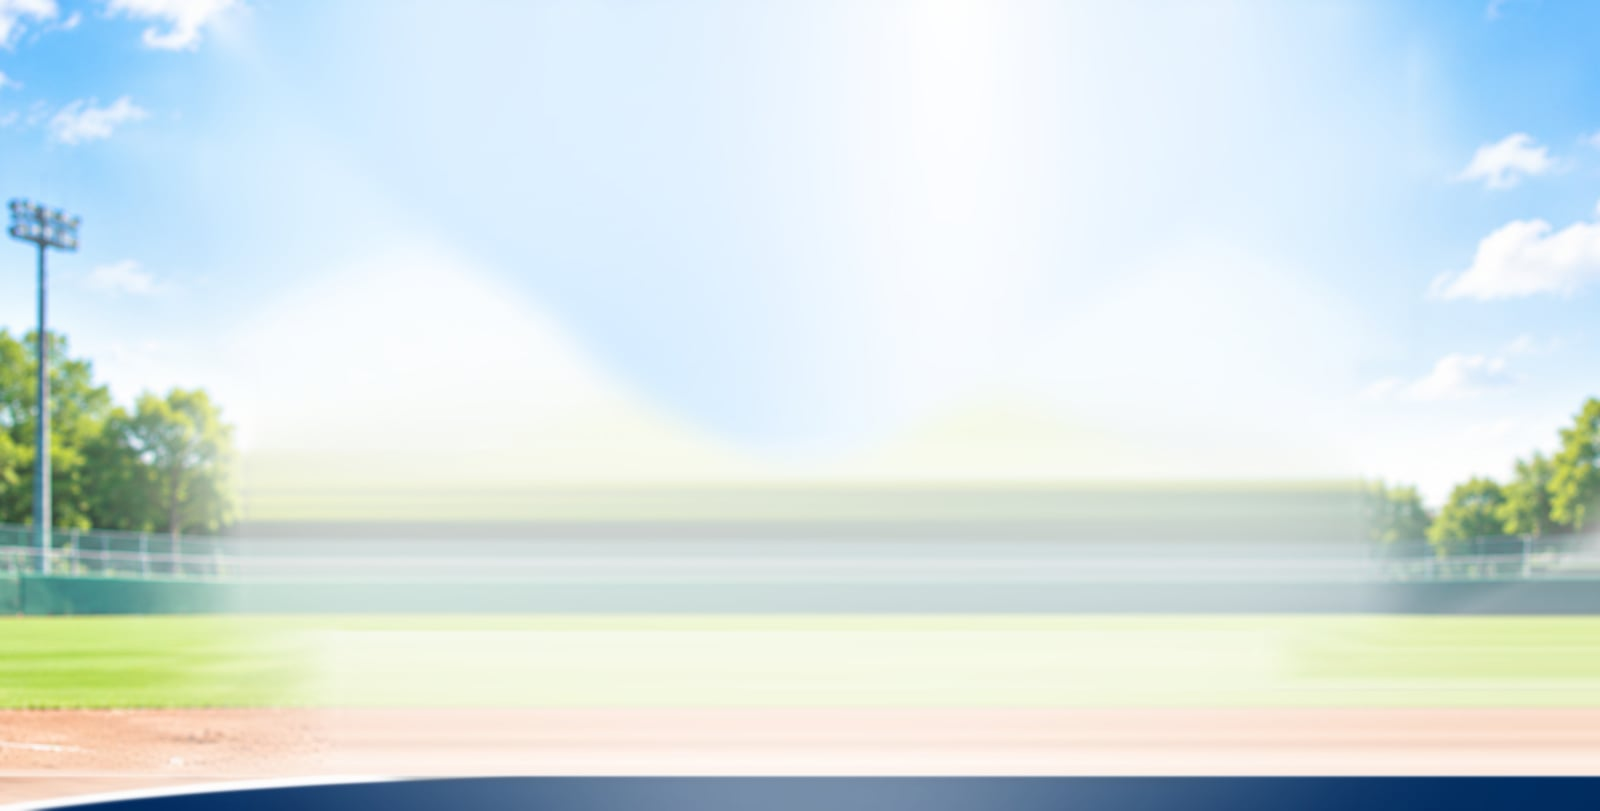
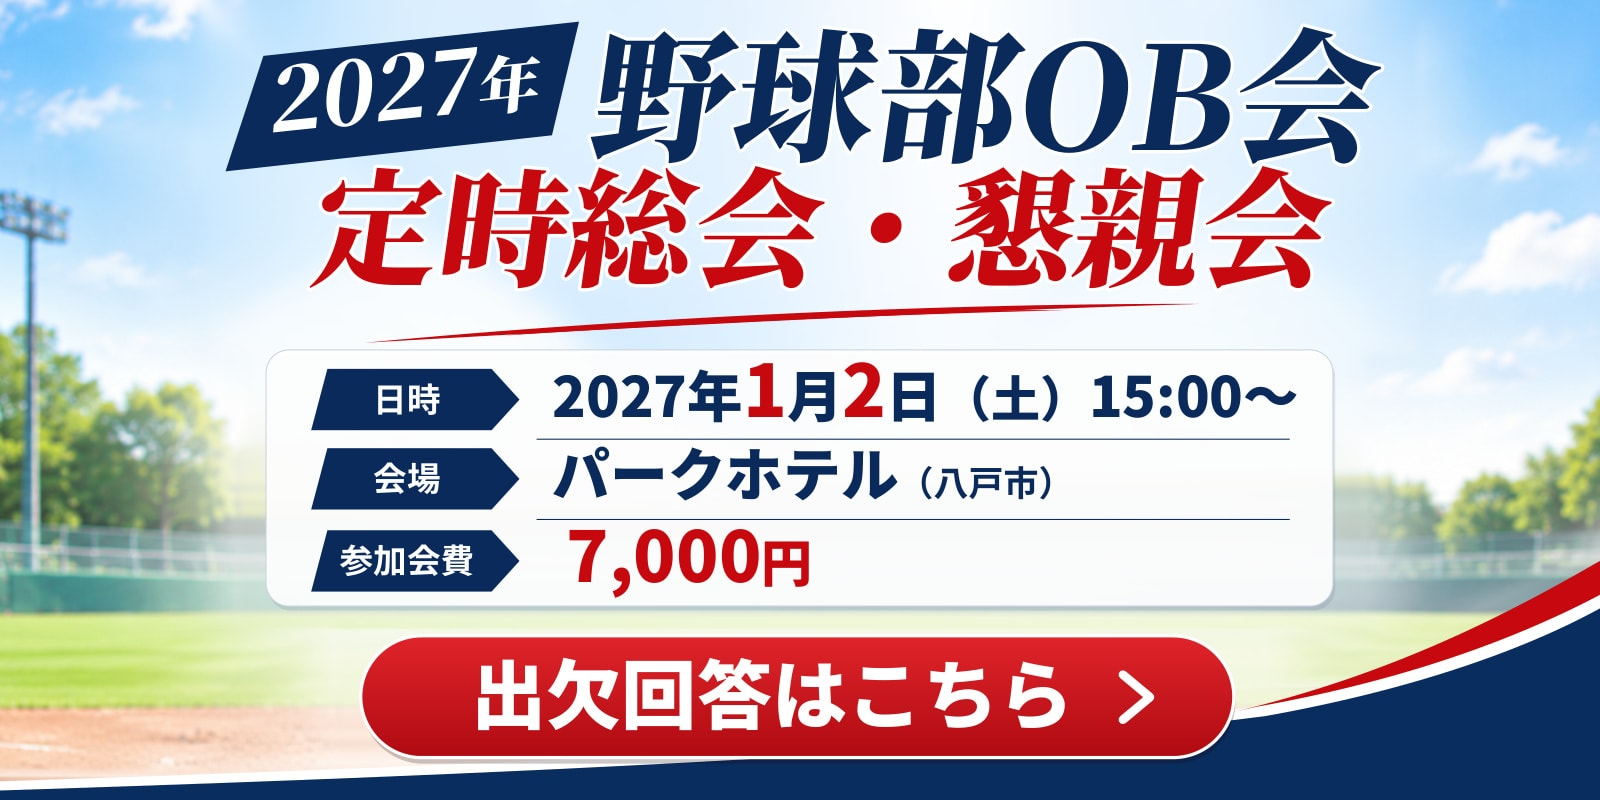
fix: PDF全体のテキスト・グラフィック要素を完全描画したバナー画像に差し替え

diff --git a/src/components/home/home.component.html b/src/components/home/home.component.html
@@ -16,7 +16,7 @@
         <img 
           ngSrc="/assets/images/general-meeting-banner-2027.jpg"
           width="1600"
-          height="811"
+          height="800"
           alt="2027年 野球部OB会 定時総会・懇親会 日時：2027年1月2日（土）15:00〜 会場：パークホテル（八戸市） 参加会費：7,000円 出欠回答はこちら"
           priority
           [disableOptimizedSrcset]="true"

diff --git a/src/components/support/support.component.html b/src/components/support/support.component.html
@@ -150,7 +150,7 @@
           <img 
             ngSrc="/assets/images/general-meeting-banner-2027.jpg"
             width="1600"
-            height="811"
+            height="800"
             alt="2027年 野球部OB会 定時総会・懇親会"
             loading="lazy"
             decoding="async"
